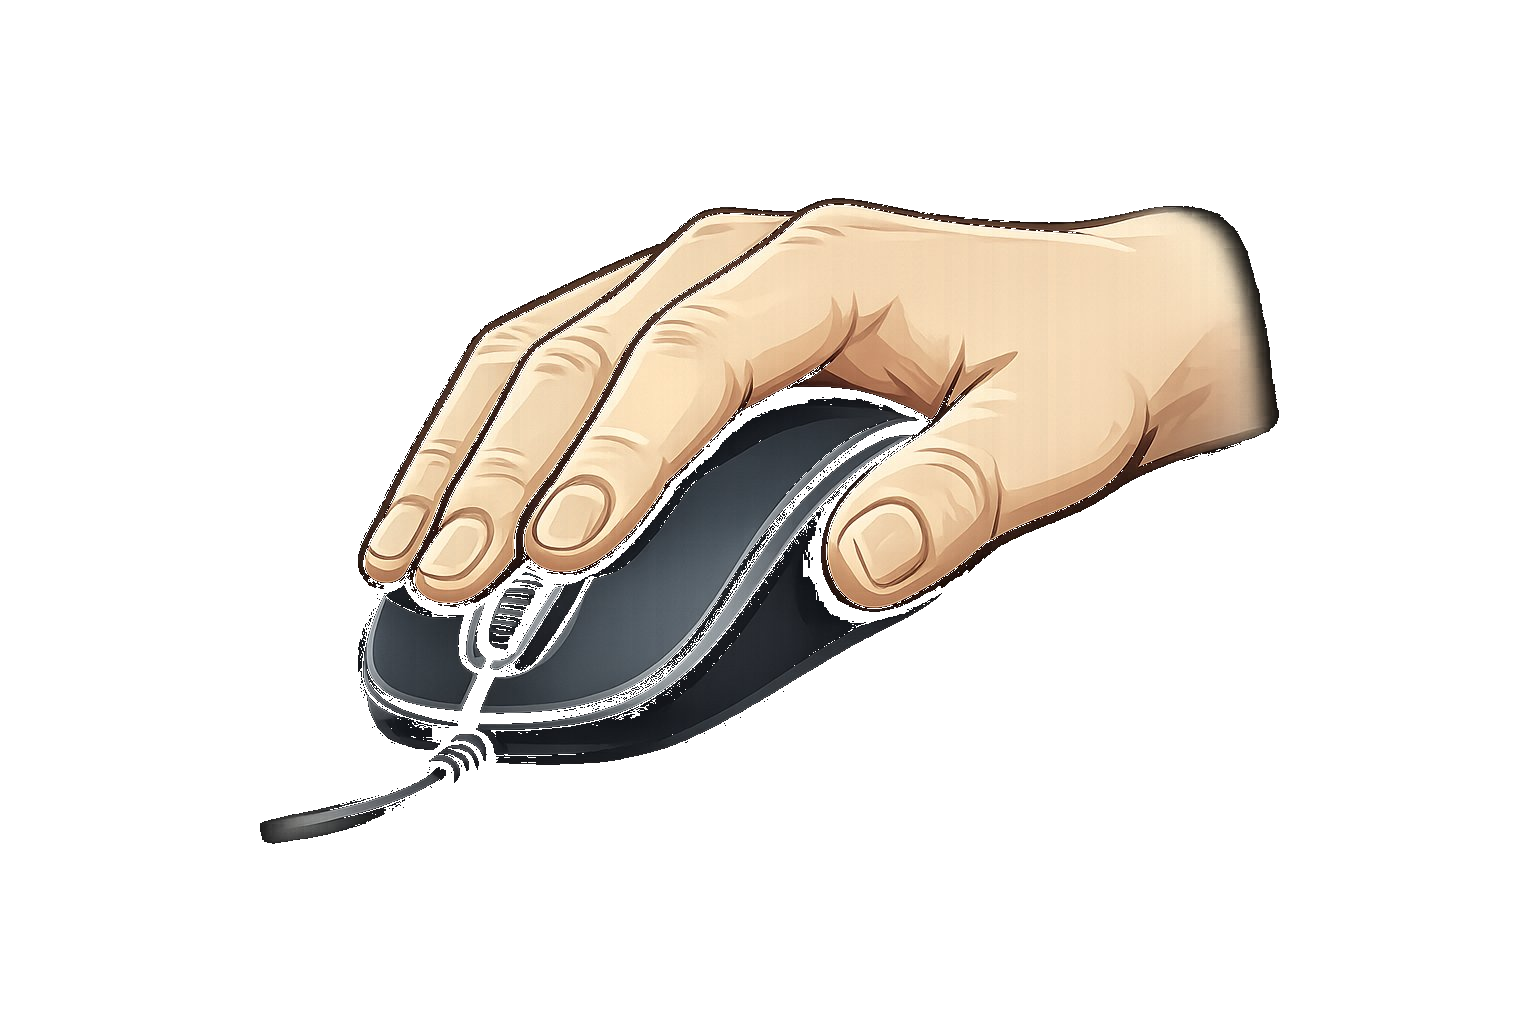
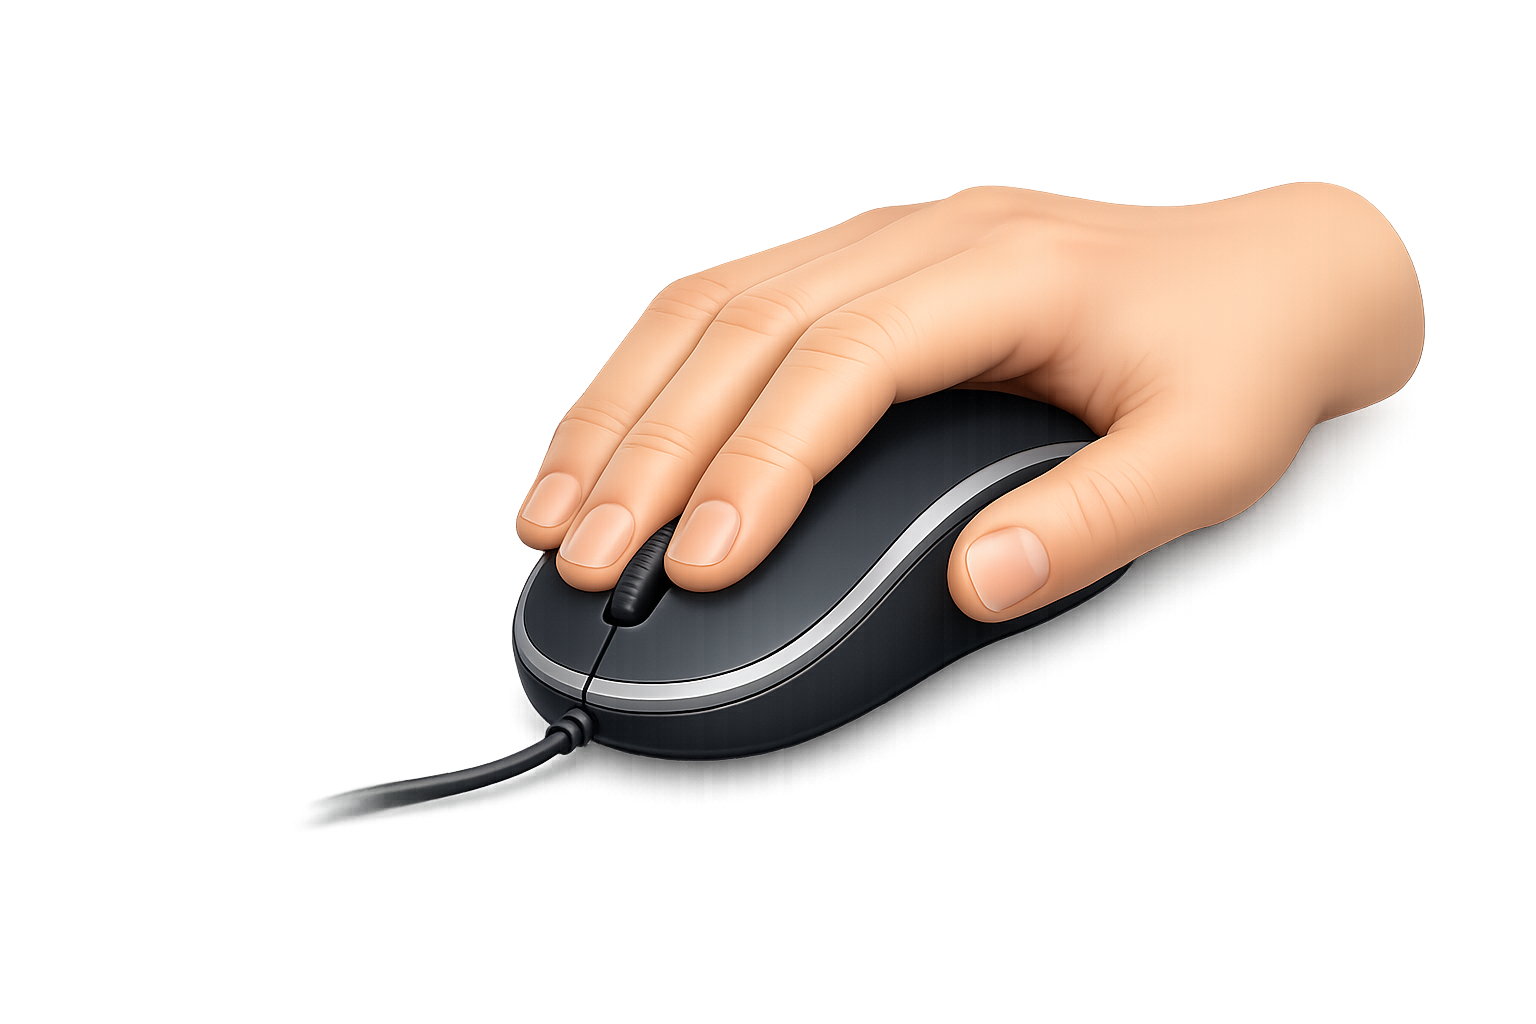
Version test

Changed region(s): [[0.1562, 0.1562, 0.9375, 0.8438]]

diff --git a/index.html b/index.html
@@ -11,7 +11,7 @@
     --blue-mid:   #2558a8;
     --green-btn:  #2ebc60;
     --red-text:   #d0021b;
-        --text-dark:  #1a3558;
+    --text-dark:  #1a3558;
     --sidebar-w:  210px;
   }
   * { box-sizing: border-box; margin: 0; padding: 0; }
@@ -281,7 +281,7 @@
     content: ''; position: absolute; top: 0; left: 0; right: 0;
     height: 4px; border-radius: 16px 16px 0 0; background: #2558a8;
   }
-  .lex-symptom-card:hover { transform: translateY(-4px); box-shadow: 0 8px 24px rgba(26,53,88,0.13); }
+  //.lex-symptom-card:hover { transform: translateY(-4px); box-shadow: 0 8px 24px rgba(26,53,88,0.13); }
   .lex-symptom-icon { font-size: 2.8rem; margin-bottom: 10px; margin-top: 4px; }
   .lex-symptom-label { font-size: 1rem; font-weight: 800; color: #1a3558; margin-bottom: 6px; line-height: 1.3; }
   .lex-symptom-desc { font-size: 0.86rem; color: #6080a0; line-height: 1.5; }
@@ -309,7 +309,7 @@
     display: flex; align-items: center; gap: 16px; margin-bottom: 4px;
   }
   .lex-crowding-stat-box {
-    background: #eef4fa; border-radius: 14px; padding: 10px 16px;
+    background: #fbbd2c; border-radius: 14px; padding: 10px 16px;
     text-align: center; flex-shrink: 0;
   }
   .lex-crowding-stat-pre {
@@ -371,7 +371,7 @@
     content: ''; position: absolute; top: 0; left: 0; right: 0;
     height: 4px; border-radius: 16px 16px 0 0; background: #2558a8;
   }
-  .lex-solution-benefit:hover { transform: translateY(-4px); box-shadow: 0 8px 24px rgba(26,53,88,0.13); }
+  //.lex-solution-benefit:hover { transform: translateY(-4px); box-shadow: 0 8px 24px rgba(26,53,88,0.13); }
   .lex-solution-benefit-icon { font-size: 2.8rem; margin-bottom: 10px; margin-top: 4px; }
   .lex-solution-benefit-title { font-size: 1rem; font-weight: 800; color: #1a3558; margin-bottom: 6px; line-height: 1.3; }
   .lex-solution-benefit-desc { font-size: 0.86rem; color: #6080a0; line-height: 1.5; }
@@ -844,12 +844,12 @@
     transition: all 0.2s; min-width: 160px;
   }
   .age-card:hover { border-color: #2558a8; transform: translateY(-3px); box-shadow: 0 8px 24px rgba(26,53,88,0.15); }
-  .age-card.selected { border-color: #2558a8; background: #f0f5ff; }
+  .age-card.selected { border-color: #2558a8; background: #2558a8; }
   .age-label {
     font-family: 'Poppins', sans-serif; font-size: 3rem;
     font-weight: 800; color: #2558a8;
   }
-  .age-card.selected .age-label { color: #1a3558; }
+  .age-card.selected .age-label { color: #ffffff; }
 
   /* Grande carte de lecture pleine page */
   .reading-card-full {
@@ -1001,14 +1001,13 @@
     filter: drop-shadow(0 8px 24px rgba(0,0,0,0.18));
     transition: transform 0.2s;
   }
-  .icon3d-img:hover { transform: translateY(-6px); }
+  //.icon3d-img:hover { transform: translateY(-6px); }
   .icon3d-arrow {
     width: 0; height: 0; margin: 0 0 40px 0;
     border-top: 18px solid transparent;
     border-bottom: 18px solid transparent;
   }
   .icon3d-arrow.blue   { border-left: 26px solid #2558a8; }
-  .icon3d-arrow.orange { border-left: 26px solid #2558a8; }
   .icon3d-label {
     font-family: 'Poppins', sans-serif; font-size: clamp(0.8rem,2vw,2.5rem);
     font-weight: 700; color: var(--text-dark); text-align: center;
@@ -1102,7 +1101,7 @@
   <!-- Titre centré en haut -->
   <div class="kiosk-top" style="width:100%; text-align:center;">
     <div class="kiosk-title">BIENVENUE</div>
-    <div class="kiosk-subtitle">Testez la technologie Lexilens !</div>
+    <div class="kiosk-subtitle">Testez facilement la technologie Lexilens en 3 étapes !</div>
   </div>
 
   <!-- 3 icônes centrées verticalement et horizontalement -->
@@ -1120,7 +1119,7 @@
       <div class="icon3d-label">LIRE</div>
     </div>
 
-    <div class="icon3d-arrow orange"></div>
+    <div class="icon3d-arrow blue"></div>
 
     <div class="icon3d-wrap">
       <img class="icon3d-img" src="lexilens-assets/Images/icon-check.png" alt="Résultat">
@@ -1216,12 +1215,12 @@
                 <div class="lex-crowding-stat-post">personnes</div>
               </div>
               <div class="lex-crowding-stat-right">
-                <div class="lex-crowding-stat-desc">sont concernées par ce bruit visuel sans le savoir.</div>
+                <div class="lex-crowding-stat-desc">sont concernées par ce bruit neurovisuel sans le savoir.</div>
                 <div class="lex-crowding-stat-source">Source : NIH, INSERM — données épidémiologiques internationales</div>
               </div>
             </div>
             <div class="lex-crowding-body">
-              Le cerveau reçoit <strong>deux images légèrement décalées</strong> au lieu d'une seule. Ce doublement invisible crée un <strong>« bruit visuel »</strong>, qu'on appelle <strong>encombrement neurovisuel</strong>, rend la lecture moins fluide et plus fatigante.
+              Le cerveau reçoit <strong>deux images légèrement décalées</strong> au lieu d'une seule. Ce doublement invisible crée un <strong>« bruit neurovisuel »</strong>, qu'on appelle <strong>encombrement neurovisuel</strong>. Ce phénomène rend la lecture moins fluide et plus fatigante.
             </div>
             <div class="lex-crowding-note">
               Ce n'est pas un problème de vue, ni d'intelligence. C'est simplement la façon dont certains cerveaux traitent les images.
@@ -1242,7 +1241,7 @@
                  onerror="this.style.opacity='0.1'">
           </div>
           <div class="lex-solution-highlight">
-            <p class="lex-solution-highlight-text">Grâce à une <strong>modulation lumineuse invisible</strong>, Lexilens empêche le doublement de se former.<br>Résultat : une lecture <strong>plus naturelle</strong>, <strong>plus fluide</strong>, et <strong>plus aisée</strong>, avec <strong>moins de fatigue</strong> et une <strong>comprhension facilitée</strong>. Dès les premières secondes, beaucoup ressentent la différence.</p>
+            <p class="lex-solution-highlight-text">Grâce à une <strong>modulation lumineuse invisible</strong>, Lexilens empêche le doublement de se former.<br>Résultat : <strong>L'expérience de lecture est transformée</strong> - une lecture <strong>plus naturelle</strong>, <strong>plus fluide</strong>, avec <strong>moins de fatigue</strong>, une <strong>compréhension facilitée</strong> et une <strong>meilleure concentration</strong>. Dès les premières secondes, de nombreuses personnes ressentent la différence.</p>
           </div>
           <div class="lex-solution-benefits">
             <div class="lex-solution-benefit">
@@ -1511,10 +1510,10 @@ function navTo(pageId, el) {
   const STEPS = [
     { label:'Âge',            title:'Choisissez votre tranche d\'âge',              instruction:'Sélectionnez la tranche d\'âge qui vous correspond.' },
     { label:'Désactivation',  title:'Vérifiez que la technologie Lexilens est désactivée', instruction:'Appuyez sur le bouton power pour désactiver la technologie Lexilens.' },
-    { label:'Sans Lexilens',  title:'Lisez sans la technologie Lexilens',            instruction:'Prenez le temps de lire ce texte normalement. Notez votre confort, votre vitesse et votre fatigue visuelle.' },
+    { label:'Sans Lexilens',  title:'Lisez sans la technologie Lexilens',            instruction:'Lisez ce texte à votre ruthme habitueld. Evaluez votre confort, votre vitesse et votre fatigue visuelle.' },
     { label:'Activation',     title:'Activez la technologie Lexilens',               instruction:'Appuyez sur le bouton power pour activer la technologie Lexilens.' },
     { label:'Réglage',        title:'Réglez la fréquence à 80 Hz et la balance à 20%', instruction:'Tournez le bouton rouge pour régler la fréquence, et le bouton bleu pour la balance.' },
-    { label:'Avec Lexilens',  title:'Lisez avec la technologie Lexilens activée',    instruction:'Lisez ce texte avec Lexilens activé. Comparez votre confort par rapport à la première lecture.' },
+    { label:'Avec Lexilens',  title:'Lisez avec la technologie Lexilens activée',    instruction:'Comparez votre confort par rapport à la première lecture.' },
     { label:'Réglages libres',title:'Explorez librement les réglages pour optimiser votre confort visuel',               instruction:'Tournez les boutons pour trouver votre réglage idéal.' },
     { label:'Avec réglages',  title:'Lisez avec vos réglages personnalisés',         instruction:'Lisez ce texte avec votre réglage idéal trouvé à l\'étape précédente.' },
     { label:'Résultats',      title:'Merci d\'avoir fait le test !',                instruction:'C\'est le moment de votre retour d\'expérience.' }
@@ -1524,7 +1523,6 @@ function navTo(pageId, el) {
   let testLevel = null;
 
   // Textes intégrés directement (pas de fetch nécessaire)
-  // Textes intégrés directement
   const TEXTES_INLINE = {
     '10-11ans-avec': { texte: 'Inès adorait les sciences depuis que sa maîtresse avait apporté un microscope en classe. Elle décida de créer son propre laboratoire dans le garage de ses parents. Avec quelques bocaux, des loupes et un cahier de notes, elle commença ses expériences. Sa première observation porta sur l\'eau prélevée dans la mare du jardin. Sous la loupe, elle aperçut de minuscules créatures se déplaçant rapidement. Elle dessina chaque forme observée avec le plus de précision possible. Sa mère lui offrit un livre sur les micro-organismes pour l\'encourager. Inès passa des heures à comparer ses dessins avec les illustrations du livre. Elle identifia des paramécies, des rotifères et des larves d\'insectes aquatiques. Son carnet de laboratoire se remplissait de notes et de croquis détaillés. Un voisin biologiste apprit ses expériences et proposa de lui prêter un vrai microscope. Inès n\'en croyait pas ses yeux quand elle vit sa première cellule végétale. La paroi cellulaire et les chloroplastes verts apparaissaient avec une netteté parfaite. Elle comprit alors que le monde invisible était d\'une richesse infinie. Elle prépara des lames avec des feuilles, des pétales et des morceaux de bois. Chaque matériau révélait une organisation différente sous les lentilles grossissantes. Inès invita ses amis à venir regarder dans le microscope un mercredi après-midi. Certains étaient sceptiques au départ mais restèrent bouche bée devant les images. Son ami Tom décida de commencer lui aussi un carnet d\'observations scientifiques. Inès lui expliqua comment préparer une lame sans abîmer l\'échantillon. Ils formèrent un petit club des sciences qui se réunissait chaque semaine. Ensemble, ils observèrent des cheveux, des fourmis et des grains de pollen. Le voisin biologiste venait parfois répondre à leurs questions avec plaisir. Inès apprit que la curiosité était le premier outil de tout scientifique. Elle rêvait de découvrir un organisme encore jamais identifié par personne. Son carnet était devenu un véritable journal de bord scientifique personnel. Les pages s\'enrichissaient chaque semaine de nouvelles découvertes fascinantes. Ses parents étaient fiers de voir leur fille aussi passionnée et sérieuse. Inès savait maintenant qu\'elle voulait travailler dans la recherche plus tard. Et tout avait commencé avec un peu d\'eau prélevée dans une simple mare.', taille: 1.3, interligne: 1.9 },
     '10-11ans-libre': { texte: 'Marcus était passionné de football depuis ses cinq ans. Il s\'entraînait tous les jours dans la cour de son immeuble après l\'école. Cette année, il avait intégré l\'équipe de son quartier pour la première fois. Les entraînements avaient lieu le mardi et le jeudi soir au stade municipal. L\'entraîneur s\'appelait Monsieur Bertrand et il était très exigeant mais juste. Dès le premier entraînement, Marcus réalisa qu\'il avait encore beaucoup à apprendre. Les autres joueurs maîtrisaient des techniques qu\'il n\'avait jamais pratiquées. Il rentra chez lui ce soir-là avec la tête pleine de questions et de doutes. Sa sœur aînée lui dit que les débuts étaient toujours les plus difficiles. Le lendemain matin, il se leva tôt pour s\'exercer avant d\'aller en classe. Semaine après semaine, ses gestes devinrent plus précis et plus fluides. Monsieur Bertrand remarqua ses progrès et lui confia un rôle de milieu de terrain. Marcus apprit à lire le jeu et à anticiper les mouvements de ses coéquipiers. Il comprit que le football était autant un sport collectif qu\'individuel. Le premier match officiel approchait et la pression montait dans le groupe. La veille, Marcus dormit mal en pensant aux actions importantes du lendemain. Mais dès le coup de sifflet, toute la nervosité disparut instantanément. Il courait, passait et défendait avec une énergie qu\'il ne se connaissait pas. À la vingtième minute, il offrit une passe décisive à son coéquipier Kevin. Le stade retentit d\'applaudissements quand le ballon entra dans le filet. Son équipe gagna ce match par deux buts à un après une belle résistance. Dans les vestiaires, l\'ambiance était joyeuse et les sourires communicatifs. Monsieur Bertrand félicita chaque joueur individuellement avec des mots précis. Il dit à Marcus qu\'il avait montré une belle intelligence de jeu ce soir. Marcus se sentait appartenir à quelque chose de plus grand que lui-même. Le chemin pour devenir meilleur était encore long mais il était sur la bonne voie. Il remercia ses parents qui avaient assisté à chaque entraînement sans exception. Sa mère lui dit qu\'elle était fière de sa persévérance plus que de ses buts. Marcus comprit ce soir-là la valeur du travail régulier et de la patience. Il avait hâte de retrouver ses coéquipiers pour le prochain entraînement.', taille: 1.3, interligne: 1.9 },
@@ -1662,7 +1660,7 @@ function navTo(pageId, el) {
     // ── Étape 9 : Résultats ──
     else if (testStep === 8) {
       center = `<div class="result-card">
-        <div class="result-icon">🎉</div>
+        <div class="result-icon">🤔</div>
         <p class="feedback-question">Avez-vous ressenti une différence de confort avec la technologie Lexilens activée&nbsp;?</p>
         <div class="feedback-btns">
           <button class="feedback-btn" onclick="selectFeedback(this, 'Aucune différence')">Aucune différence</button>
@@ -1673,7 +1671,7 @@ function navTo(pageId, el) {
           <div class="result-reveal-inner">
             <div class="result-reveal-text">
               <div class="result-title">Test terminé !</div>
-              <div class="result-sub">Nos conseillers sont disponibles pour vous expliquer les résultats et vous orienter vers le produit adapté à votre besoin.</div>
+              <div class="result-sub">Nos experts sont disponibles pour vous expliquer les résultats et vous orienter vers le produit adapté à votre besoin.</div>
               <div class="result-btns">
                 <button class="btn-go-products" onclick="navTo('page-products',null)">🛍 Voir les produits</button>
               </div>
